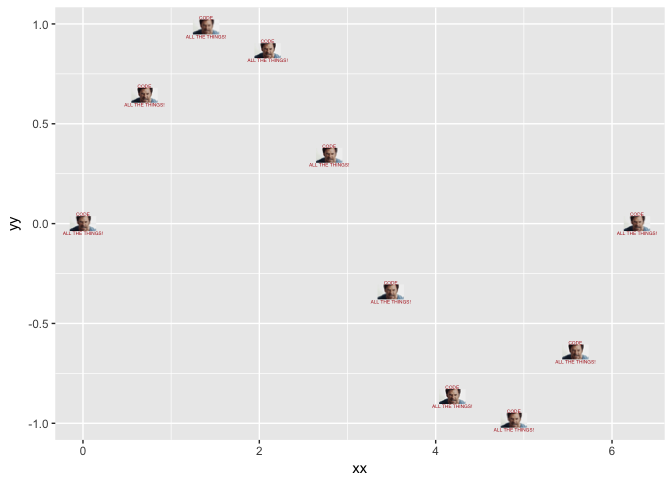
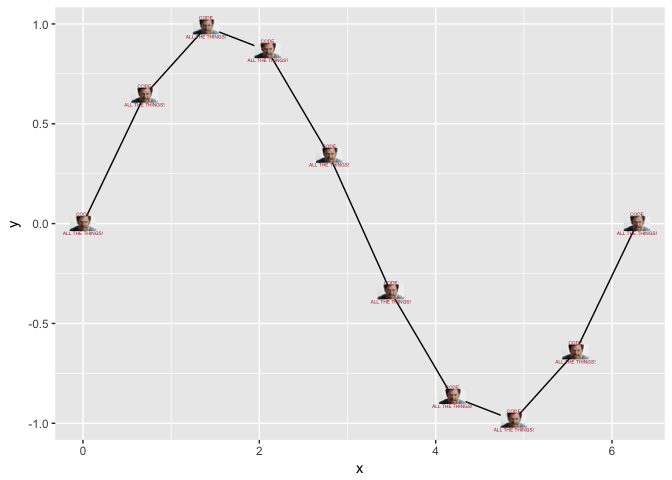
ggplot2 support example

diff --git a/README.md b/README.md
@@ -77,7 +77,7 @@ library(grid)
 mm <- meme(u, "code", "all the things!", size=.3, color='firebrick')
 
 grid.newpage()
-pushViewport(viewport(width=.9, height=.9, xscale = c(-0.1*pi, 2.1*pi), yscale = c(0, 1)))
+pushViewport(viewport(width=.9, height=.9))
 grid.rect(gp = gpar(lty="dashed"))
 
 xx <- seq(0, 2*pi , length.out=10)
@@ -91,15 +91,27 @@ for (i in seq_along(xx)) {
 
 ![](docs/Figs/unnamed-chunk-8-1.png)
 
-ggplot support
---------------
+ggplot2 support
+---------------
 
 ``` r
 library(ggplot2)
-qplot(xx, yy) + geom_subview(mm, x = xx, y = yy, width=.3, height=.15)
+library(ggimage)
+
+d <- data.frame(x = xx, y = yy)
+ggplot(d, aes(x, y)) + geom_line() +
+    geom_subview(mm, x = xx, y = yy, width=.3, height=.15)
 ```
 
 ![](docs/Figs/unnamed-chunk-9-1.png)
+
+``` r
+ggplot(d, aes(x, y)) +
+    geom_subview(mm+aes(size=3), x=0, y=0, width=Inf, height=Inf) +
+    geom_point() + geom_line()
+```
+
+![](docs/Figs/unnamed-chunk-9-2.png)
 
 cowplot support
 ---------------
